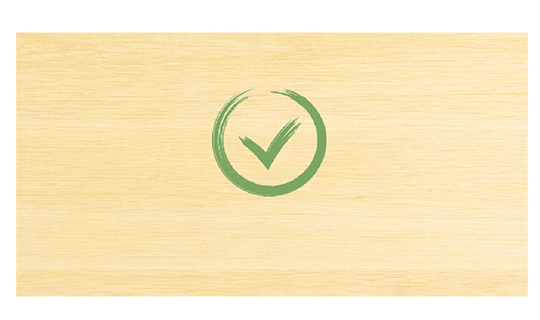
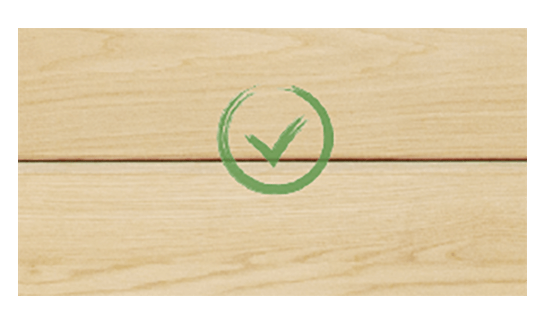
图

diff --git a/laravel/resources/views/hemiao.blade.php b/laravel/resources/views/hemiao.blade.php
@@ -47,8 +47,8 @@
             <li><a href="#blog" class="smoothScroll">服务</a></li>
             <li><a href="#about" class="smoothScroll">关于我们</a></li>
             <li>
-              <a class="visible-xs-block" target="_blank" href="http://shop111117.top/eDG4KS" class="smoothScroll">淘宝</a>
-              <a class="visible-md-block visible-sm-block visible-lg-block" target="_blank" href="https://shop142723414.taobao.com" class="smoothScroll" >淘宝</a>
+              <a class="visible-xs-block visible-sm-block" target="_blank" href="http://shop111117.top/eDG4KS" class="smoothScroll">淘宝</a>
+              <a class="visible-md-block visible-lg-block" target="_blank" href="https://shop142723414.taobao.com" class="smoothScroll" >淘宝</a>
               </li>
       </ul>
     </div>
@@ -60,8 +60,8 @@
   <div class="container">
     <div class="row">
       <picture>
-            <source srcset="/img/sliders/notgenericherobg2.png" media="(max-width: 600px)">
-            <img srcset="/img/sliders/notgenericherobg.png"/>
+            <source srcset="/img/sliders/notgenericherobg2.jpg" media="(max-width: 600px)">
+            <img srcset="/img/sliders/notgenericherobg.jpg"/>
         </picture>
       
       <div class="col-md-6 col-md-offset-3 col-sm-6 col-sm-offset-3 col-xs-6 col-xs-offset-3 big_title_home">
@@ -85,8 +85,8 @@
   <div class="container">
     <div class="row">
        <picture>
-            <source srcset="/img/sliders/team-bg-2.png" media="(max-width: 600px)">
-            <img srcset="/img/sliders/team-bg-1.png"/>
+            <source srcset="/img/sliders/team-bg-2.jpg" media="(max-width: 600px)">
+            <img srcset="/img/sliders/team-bg-1.jpg"/>
         </picture>
       
     </div>
@@ -95,7 +95,7 @@
     <div class="row">
       <div class="col-md-3 col-sm-6 col-xs-6">
         <div class="feature">
-          <img class="img-responsive center-block img_circle" data-original="/img/material/background_160_1.png">
+          <img class="img-responsive center-block img_circle" data-original="/img/material/background_160_1.jpg">
           <div class="img_title_p_back">
             <p class="material_title">原创设计</p>
           </div>
@@ -104,7 +104,7 @@
       </div>
       <div class="col-md-3 col-sm-6 col-xs-6">
         <div class="feature">
-          <img class="img-responsive center-block img_circle" data-original="/img/material/background_160_2.png">
+          <img class="img-responsive center-block img_circle" data-original="/img/material/background_160_2.jpg">
           <div class="img_title_p_back">
           <p class="material_title">整体搭配</p>
         </div>
@@ -112,7 +112,7 @@
       </div>
       <div class="col-md-3 col-sm-6 col-xs-6">
         <div class="feature">
-          <img class="img-responsive center-block img_circle" data-original="/img/material/background_160_3.png">
+          <img class="img-responsive center-block img_circle" data-original="/img/material/background_160_3.jpg">
           <div class="img_title_p_back">
           <p class="material_title">圆角设计</p>
         </div>
@@ -120,7 +120,7 @@
       </div>
       <div class="col-md-3 col-sm-6 col-xs-6">
         <div class="feature">
-          <img class="img-responsive center-block img_circle" data-original="/img/material/background_160_4.png">
+          <img class="img-responsive center-block img_circle" data-original="/img/material/background_160_4.jpg">
           <div class="img_title_p_back">
           <p class="material_title">关注细节</p>
         </div>
@@ -138,8 +138,8 @@
       </div>
     <div class="row">
       <picture>
-            <source srcset="/img/sliders/team-bg-22.png" media="(max-width: 600px)">
-            <img srcset="/img/sliders/team-bg-2.png"/>
+            <source srcset="/img/sliders/team-bg-22.jpg" media="(max-width: 600px)">
+            <img srcset="/img/sliders/team-bg-2.jpg"/>
         </picture>
     </div>
     <div class="row">
@@ -147,21 +147,21 @@
           <div class="feature">
           <p class="mucai_title">精选北美进口硬木</p>
               <div class="col-md-3 col-md-offset-2 margin-15px">
-                  <img  class="img-responsive center-block img_circle_mu" data-original="/img/material/baixiangmu.png">
+                  <img  class="img-responsive center-block img_circle_mu" data-original="/img/material/baixiangmu.jpg">
                   <div class="img_title_p_back">
                   <p class="material_title">白橡</p>
                 </div>
             </div>
             
               <div class="col-md-2 margin-15px">
-                  <img  class="img-responsive center-block img_circle_mu" data-original="/img/material/heihutaomu.png">
+                  <img  class="img-responsive center-block img_circle_mu" data-original="/img/material/heihutaomu.jpg">
                  <div class="img_title_p_back">
                   <p class="material_title">黑胡桃</p>
                 </div>
             </div>
             
               <div class="col-md-3 margin-15px">
-                  <img  class="img-responsive center-block img_circle_mu" data-original="/img/material/bailamu.png">
+                  <img  class="img-responsive center-block img_circle_mu" data-original="/img/material/bailamu.jpg">
                   <div class="img_title_p_back">
                   <p class="material_title">白蜡</p>
                 </div>
@@ -230,8 +230,8 @@
       </div>
     <div class="row">
       <picture>
-            <source srcset="/img/sliders/team-bg-32.png" media="(max-width: 600px)">
-            <img srcset="/img/sliders/team-bg-3.png"/>
+            <source srcset="/img/sliders/team-bg-32.jpg" media="(max-width: 600px)">
+            <img srcset="/img/sliders/team-bg-3.jpg"/>
         </picture>
     </div>
 
@@ -273,7 +273,7 @@
     </div>
     <div class="row">
       <div class="col-md-6">
-          <img class="img-responsive center-block padding-15px" data-original="/img/material/anli_1.png">
+          <img class="img-responsive center-block padding-15px" data-original="/img/material/anli_1.jpg">
             <div class="col-md-12 col-xs-12 box_background">
               <div class="col-md-9 col-xs-9 box_content_div">
               <p class="box_p_1">找不到合适的家具，像他们一样定制吧</p>
@@ -287,7 +287,7 @@
       </div>
 
       <div class="col-md-6">
-        <img class="img-responsive center-block padding-15px" data-original="/img/material/anli_3.png">
+        <img class="img-responsive center-block padding-15px" data-original="/img/material/anli_3.jpg">
             <div class="col-md-12 col-xs-12 box_background">
               <div class="col-md-9 col-xs-9 box_content_div">
               <p class="box_p_1">咏春 VS 八卦，客厅改造健身房</p>
@@ -302,7 +302,7 @@
     </div>
     <div class="row">
       <div class="col-md-6">
-          <img class="img-responsive center-block padding-15px" data-original="/img/material/anli_2.png">
+          <img class="img-responsive center-block padding-15px" data-original="/img/material/anli_2.jpg">
             <div class="col-md-12 col-xs-12 box_background">
               <div class="col-md-9 col-xs-9 box_content_div">
               <p class="box_p_1">一室变三室，她的空间魔法</p>
@@ -316,7 +316,7 @@
       </div>
 
       <div class="col-md-6">
-        <img class="img-responsive center-block padding-15px" data-original="/img/material/anli_4.png">
+        <img class="img-responsive center-block padding-15px" data-original="/img/material/anli_4.jpg">
             <div class="col-md-12 col-xs-12 box_background">
               <div class="col-md-9 col-xs-9 box_content_div">
               <p class="box_p_1">客厅不以电视为中心是一种怎样的体验</p>
